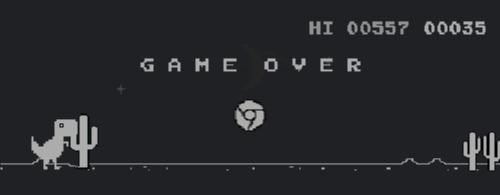
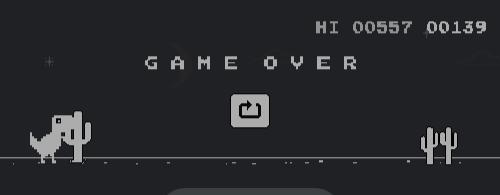
2021-10-19

diff --git a/public_test/grab_game_img_test01.py b/public_test/grab_game_img_test01.py
@@ -27,11 +27,13 @@ else:
     print("success find game [{}], handle = [{}]".format(game_title, handle))
     print("=" * 100)
 
-w_pos = (10, 10, 500, 350)
-g_pos = (w_pos[0] + 8, w_pos[1] + 115, w_pos[2], w_pos[3] - 155)
+x0, y0, x1, y1 = win32gui.GetWindowRect(handle)
+width = 500
+height = 350
+new_pos = (x0 + 8, y0 + 115, width, height - 155)
 
-# 修改游戏窗口尺寸
-win32gui.SetWindowPos(handle, win32con.HWND_TOPMOST, w_pos[0], w_pos[1], w_pos[2], w_pos[3], win32con.SWP_SHOWWINDOW)
+# 不修改坐标,修改游戏窗口尺寸
+win32gui.MoveWindow(handle, x0, y0, width, height, False)
 # 聚焦游戏窗口
 win32gui.SetForegroundWindow(handle)
 
@@ -55,7 +57,7 @@ while True:
     t_total_start = time.time()
 
     t_grab_start = time.time()
-    q_pix_map = screen.grabWindow(0, g_pos[0], g_pos[1], g_pos[2], g_pos[3])
+    q_pix_map = screen.grabWindow(0, new_pos[0], new_pos[1], new_pos[2], new_pos[3])
     t_grab_end = time.time()
     t_grab_cost = (t_grab_end - t_grab_start) * 1000
 
